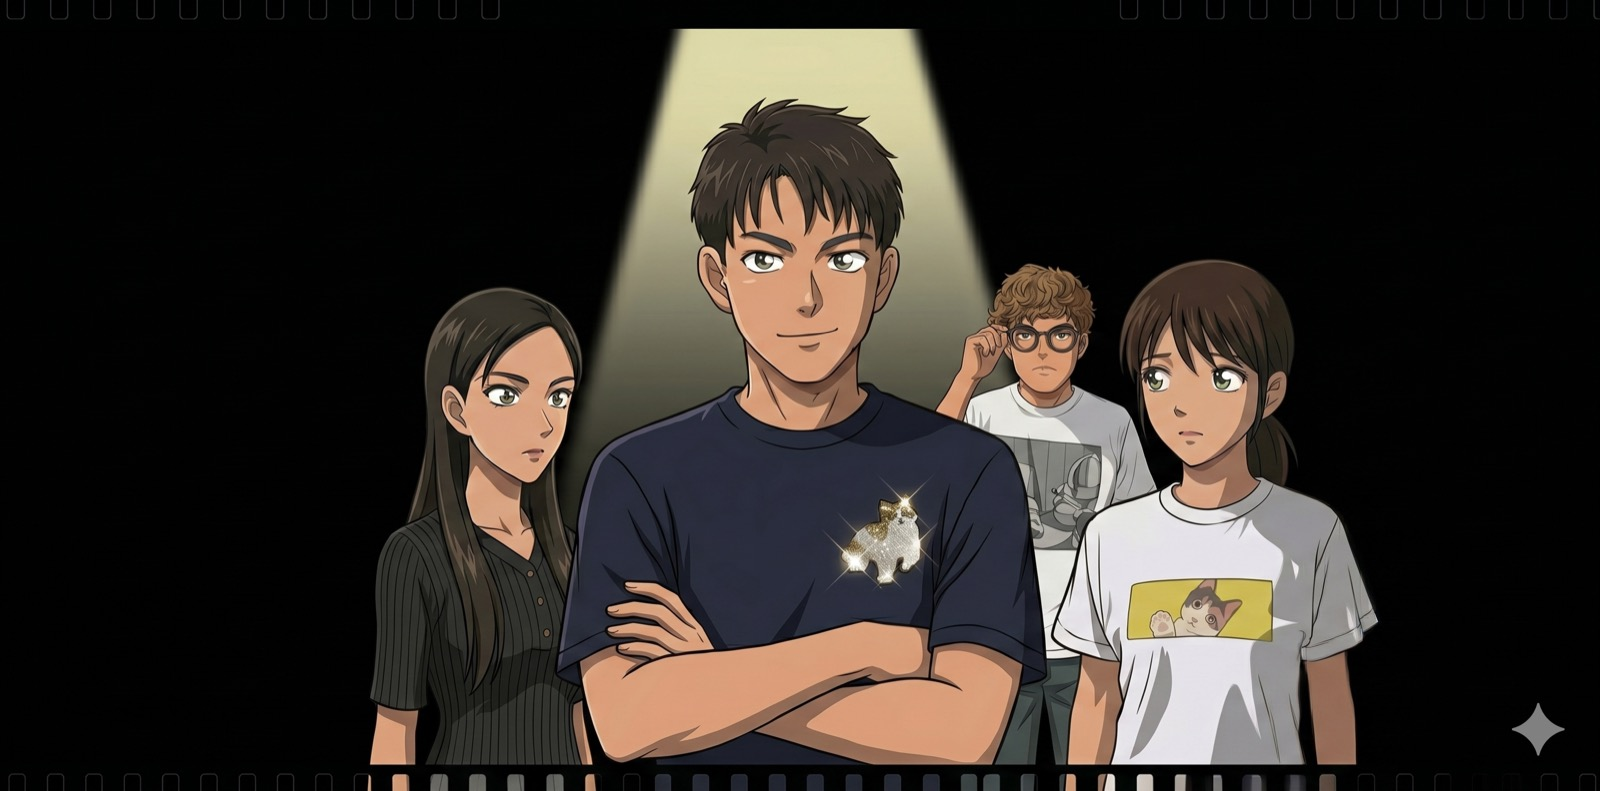
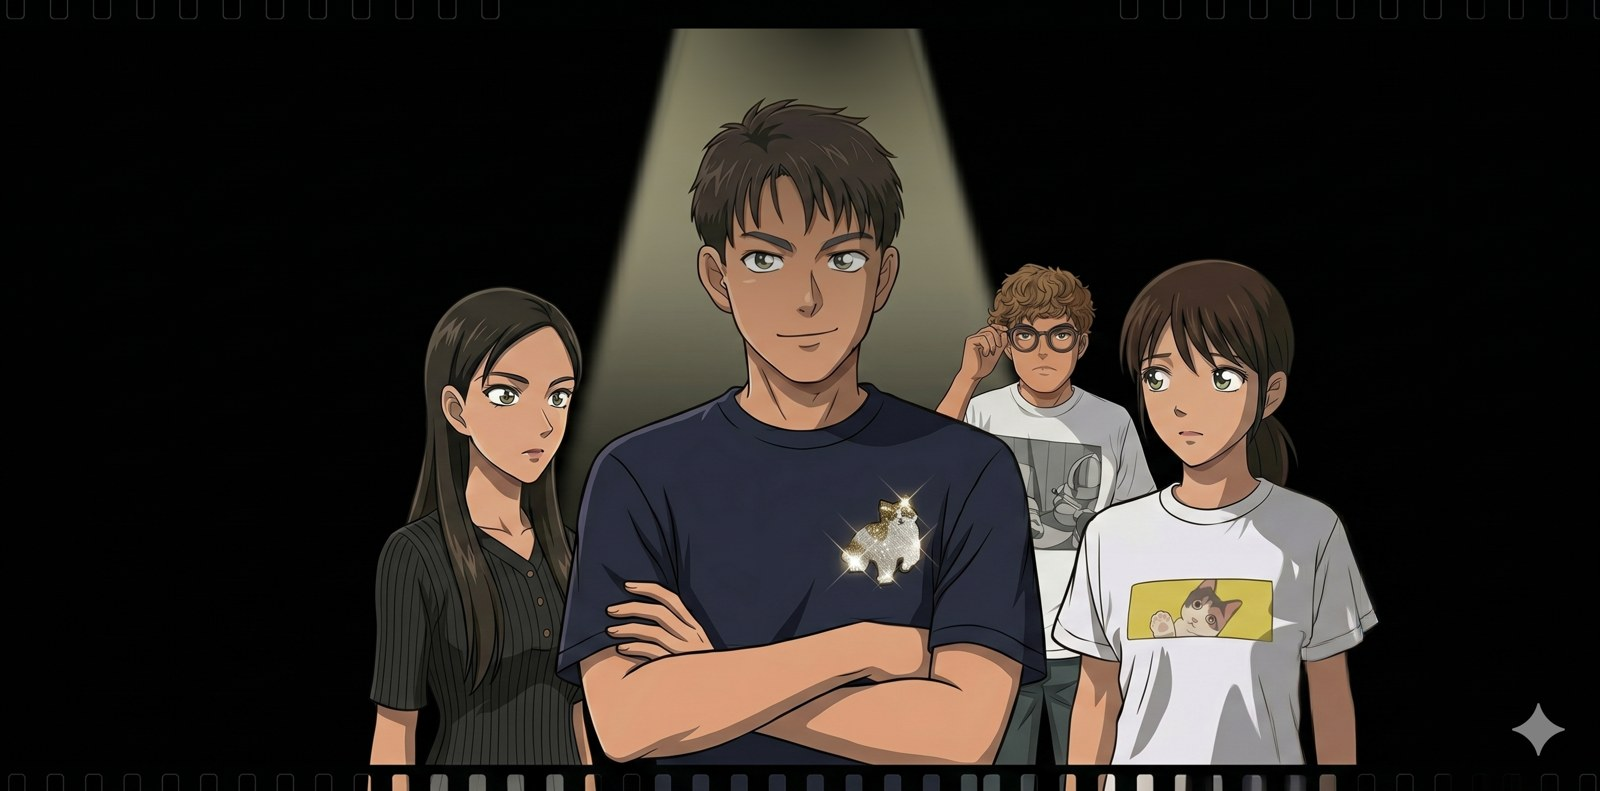
itabashi-v3: スポットライト除去・キャプションを「私たちにお任せください！／第弐ヴォヌール @daini_vonheur」に変更

Changed region(s): [[0.375, 0.0303, 0.625, 0.4551], [0.75, 0.6372, 0.7812, 0.6675]]

diff --git a/itabashi-v3.html b/itabashi-v3.html
@@ -109,7 +109,7 @@
   </div>
   <div class="reel-audio"><span class="reel-note">&#9834;</span><span class="reel-track">オリジナル音源 &middot; 第弐ヴォヌール</span></div>
   <div class="reel-bar"><span></span></div>
-</div></div><div class="mt-10 grid grid-cols-1 md:grid-cols-2 gap-4 max-w-2xl mx-auto"><div class="bg-white/70 backdrop-blur-sm rounded-2xl p-5 border border-[#E8B84B]/30 flex flex-col items-center text-center gap-3 shadow-sm"><div><p class="text-xs font-bold text-[#2A2520] mb-1">SNS運用・クラウドファンディングを<br>相談したい事業者様</p><p class="text-xs text-[#5A5550] leading-relaxed">まずはお気軽に無料相談してみる</p></div><a href="#contact"><span class="inline-flex items-center gap-2 bg-[#E8B84B] hover:bg-[#d4a63a] text-white font-bold px-6 py-2.5 rounded-full shadow-md transition-all duration-200 hover:shadow-lg text-xs w-full justify-center cursor-pointer"><svg viewBox="0 0 24 24" class="w-4 h-4 fill-white"><path d="M19 3H5c-1.1 0-2 .9-2 2v14c0 1.1.9 2 2 2h14c1.1 0 2-.9 2-2V5c0-1.1-.9-2-2-2zm-5 14H7v-2h7v2zm3-4H7v-2h10v2zm0-4H7V7h10v2z"></path></svg>無料相談する</span></a></div><div class="bg-white/70 backdrop-blur-sm rounded-2xl p-5 border border-[#89C4D4]/40 flex flex-col items-center text-center gap-3 shadow-sm"><div><p class="text-xs font-bold text-[#2A2520] mb-1">サービス内容をもっと知りたい方へ</p><p class="text-xs text-[#5A5550] leading-relaxed">実績・料金・サービス詳細をチェックする</p></div><a href="#service" class="inline-flex items-center gap-2 bg-[#89C4D4] hover:bg-[#7bbeca] text-white font-bold px-6 py-2.5 rounded-full shadow-md transition-all duration-200 hover:shadow-lg text-xs w-full justify-center"><svg viewBox="0 0 24 24" class="w-4 h-4 fill-white"><path d="M11.99 2C6.47 2 2 6.48 2 12s4.47 10 9.99 10C17.52 22 22 17.52 22 12S17.52 2 11.99 2zm4.24 16L12 15.45 7.77 18l1.12-4.81-3.73-3.23 4.92-.42L12 5l1.92 4.53 4.92.42-3.73 3.23L16.23 18z"></path></svg>サービスを見る</a></div></div></div></div></div></div></div></div></section><section id="service" class="py-12 md:py-20 bg-[#F4F0E8]"><div class="container"><div class="fade-in-up mb-8 md:mb-12"><div class="sec-label-c mb-3">SERVICE &amp; PRICE</div><h2 class="editorial-heading text-3xl md:text-4xl font-bold text-[#2A2520] mb-4">必要な施策を、必要な分だけ。</h2><p class="text-[#5A5550] text-sm leading-relaxed max-w-xl">目的やご予算に応じて柔軟に対応いたします。<br><strong class="text-[#E07A5F]">まずはお気軽にご相談ください。</strong><br>詳細はお打ち合わせの上、<br>最適なご提案をさせていただきます。</p></div><div class="fade-in-up mb-10"><div class="bg-white rounded-2xl border border-[#E8E4DC] overflow-hidden shadow-sm"><div class="bg-[#2A2520] px-6 py-4"><h3 class="text-white font-['Shippori_Mincho'] font-bold text-lg">料金の目安</h3><p class="text-white/50 text-xs mt-0.5">目的やご予算に合わせて柔軟にご相談ください。</p></div><div class="overflow-x-auto"><table class="w-full text-sm"><thead><tr class="border-b border-[#E8E4DC]"><th class="text-left px-5 py-3 text-xs font-semibold text-[#5A5550] w-1/3">サービス</th><th class="px-5 py-3 text-center"><span class="text-xs text-[#5A5550]">一般的な相場</span></th><th class="px-5 py-3 text-center bg-[#E8B84B]/8"><span class="text-xs font-bold text-[#C2A56D]">第弐ヴォヌール</span></th></tr></thead><tbody><tr class="border-b border-[#E8E4DC] last:border-0"><td class="px-5 py-3.5 text-xs font-medium text-[#2A2520]">運用代行（月額）</td><td class="px-5 py-3.5 text-center"><span class="text-xs text-[#5A5550]">月30万円〜</span></td><td class="px-5 py-3.5 text-center bg-[#E8B84B]/5"><span class="text-sm font-bold" style="color:#df846e">7万円〜</span></td></tr><tr class="border-b border-[#E8E4DC] last:border-0"><td class="px-5 py-3.5 text-xs font-medium text-[#2A2520]">アカウントコンサル</td><td class="px-5 py-3.5 text-center"><span class="text-xs text-[#5A5550]">月10〜30万円〜</span></td><td class="px-5 py-3.5 text-center bg-[#E8B84B]/5"><span class="text-sm font-bold" style="color:#df846e">4万円〜</span></td></tr><tr class="border-b border-[#E8E4DC] last:border-0"><td class="px-5 py-3.5 text-xs font-medium text-[#2A2520]">リール制作（企画・台本・編集）</td><td class="px-5 py-3.5 text-center"><span class="text-xs text-[#5A5550]">3〜10万円〜</span></td><td class="px-5 py-3.5 text-center bg-[#E8B84B]/5"><span class="text-sm font-bold" style="color:#df846e">2万円〜/本</span></td></tr><tr class="border-b border-[#E8E4DC] last:border-0"><td class="px-5 py-3.5 text-xs font-medium text-[#2A2520]">アカウント設計</td><td class="px-5 py-3.5 text-center"><span class="text-xs text-[#5A5550]">月10〜30万円〜</span></td><td class="px-5 py-3.5 text-center bg-[#E8B84B]/5"><span class="text-sm font-bold" style="color:#df846e">3万円〜</span></td></tr><tr class="border-b border-[#E8E4DC] last:border-0"><td class="px-5 py-3.5 text-xs font-medium text-[#2A2520]">分析・改善サポート</td><td class="px-5 py-3.5 text-center"><span class="text-xs text-[#5A5550]">月5〜15万円〜</span></td><td class="px-5 py-3.5 text-center bg-[#E8B84B]/5"><span class="text-sm font-bold" style="color:#df846e">2万円〜</span></td></tr></tbody></table></div><div class="px-5 py-3 bg-[#E8B84B]/10 border-t border-[#E8B84B]/20"><p class="text-sm text-[#5A5550]">※ 料金はご依頼内容・ボリュームにより変わります。まずはお気軽にご相談ください。</p></div></div></div></div></div></section><section id="strength" class="py-12 md:py-20"><div class="container"><div class="fade-in-up mb-8 md:mb-12"><div class="sec-label-c mb-3">STRENGTH</div><h2 class="editorial-heading text-3xl md:text-4xl font-bold text-[#2A2520] mb-4">なぜ、売上まで変えられるのか。</h2><p class="text-[#5A5550] text-sm leading-relaxed max-w-xl">SNS・動画・販売導線を一気通貫で担うチーム。<br>プロクオリティの映像と戦略設計で、クライアントの売上に直結します。</p></div><div class="grid md:grid-cols-3 gap-6"><div class="fade-in-up "><div class="str-card" style="--bg:url('images/strength_1.jpg')"><div class="str-photo" style="background-image:url('images/strength_1.jpg');background-position:100% 28%;background-size:135%"></div><h3 class="editorial-heading font-bold text-base text-[#2A2520] mb-3">「点」ではなく「線」でつなぐストーリー設計</h3><p class="text-sm text-[#5A5550] leading-relaxed">InstagramやTikTokから始まり、広告運用、公式LINE、クラウドファンディングまでのロードマップを作成し、御社の商品（サービス）が売れるストーリーを設計します。認知から購買までを一本の線でつなぐ、盤石な仕組みを構築できるのが私たちの強みです。</p></div></div><div class="fade-in-up "><div class="str-card" style="--bg:url('images/strength_1.jpg')"><div class="str-photo" style="background-image:url('images/strength_1.jpg');background-position:50% 28%;background-size:135%"></div><h3 class="editorial-heading font-bold text-base text-[#2A2520] mb-3">心を動かす映像で、「ファン」をつくる</h3><p class="text-sm text-[#5A5550] leading-relaxed">CM撮影の現場で培った技術力。照明・構図・編集まで、人の心を動かす映像を自社で撮影・制作できます。その実力は、自社アカウントの初回投稿で<strong class="text-[#E07A5F]">20万インプレッション</strong>を達成した実績が証明しています。</p></div></div><div class="fade-in-up "><div class="str-card" style="--bg:url('images/strength_1.jpg')"><div class="str-photo" style="background-image:url('images/strength_1.jpg');background-position:0% 28%;background-size:135%"></div><h3 class="editorial-heading font-bold text-base text-[#2A2520] mb-3">完全自社完結の一気通貫型</h3><p class="text-sm text-[#5A5550] leading-relaxed">SNS運用、広告運用、公式LINE構築、クラウドファンディング運営支援まで、すべての工程を完全自社内で完結させます。下請け業者を挟まないため、連絡のタイムラグや複雑なやり取りは一切ありません。</p></div></div></div><div class="fade-in-up mt-10"><div class="rounded-2xl overflow-hidden" style="max-width:900px;margin:0 auto;box-shadow:0 18px 50px rgba(0,0,0,0.18);"><img src="images/team_scene.jpg" class="w-full h-auto block" alt="株式会社第弐ヴォヌール 個性派探偵団"></div><p class="text-center mt-4" style="font-family:'Shippori Mincho',serif;font-size:.98rem;color:#2A2520;">フォロワーを、ファンに、売上に。<span style="color:#9A938A;margin-left:10px;font-size:.85em;">— 第弐ヴォヌール @daini_vonheur</span></p></div></div></section><section id="subsidy" class="py-12 md:py-20 bg-[#F4F0E8]"><div class="container">
+</div></div><div class="mt-10 grid grid-cols-1 md:grid-cols-2 gap-4 max-w-2xl mx-auto"><div class="bg-white/70 backdrop-blur-sm rounded-2xl p-5 border border-[#E8B84B]/30 flex flex-col items-center text-center gap-3 shadow-sm"><div><p class="text-xs font-bold text-[#2A2520] mb-1">SNS運用・クラウドファンディングを<br>相談したい事業者様</p><p class="text-xs text-[#5A5550] leading-relaxed">まずはお気軽に無料相談してみる</p></div><a href="#contact"><span class="inline-flex items-center gap-2 bg-[#E8B84B] hover:bg-[#d4a63a] text-white font-bold px-6 py-2.5 rounded-full shadow-md transition-all duration-200 hover:shadow-lg text-xs w-full justify-center cursor-pointer"><svg viewBox="0 0 24 24" class="w-4 h-4 fill-white"><path d="M19 3H5c-1.1 0-2 .9-2 2v14c0 1.1.9 2 2 2h14c1.1 0 2-.9 2-2V5c0-1.1-.9-2-2-2zm-5 14H7v-2h7v2zm3-4H7v-2h10v2zm0-4H7V7h10v2z"></path></svg>無料相談する</span></a></div><div class="bg-white/70 backdrop-blur-sm rounded-2xl p-5 border border-[#89C4D4]/40 flex flex-col items-center text-center gap-3 shadow-sm"><div><p class="text-xs font-bold text-[#2A2520] mb-1">サービス内容をもっと知りたい方へ</p><p class="text-xs text-[#5A5550] leading-relaxed">実績・料金・サービス詳細をチェックする</p></div><a href="#service" class="inline-flex items-center gap-2 bg-[#89C4D4] hover:bg-[#7bbeca] text-white font-bold px-6 py-2.5 rounded-full shadow-md transition-all duration-200 hover:shadow-lg text-xs w-full justify-center"><svg viewBox="0 0 24 24" class="w-4 h-4 fill-white"><path d="M11.99 2C6.47 2 2 6.48 2 12s4.47 10 9.99 10C17.52 22 22 17.52 22 12S17.52 2 11.99 2zm4.24 16L12 15.45 7.77 18l1.12-4.81-3.73-3.23 4.92-.42L12 5l1.92 4.53 4.92.42-3.73 3.23L16.23 18z"></path></svg>サービスを見る</a></div></div></div></div></div></div></div></div></section><section id="service" class="py-12 md:py-20 bg-[#F4F0E8]"><div class="container"><div class="fade-in-up mb-8 md:mb-12"><div class="sec-label-c mb-3">SERVICE &amp; PRICE</div><h2 class="editorial-heading text-3xl md:text-4xl font-bold text-[#2A2520] mb-4">必要な施策を、必要な分だけ。</h2><p class="text-[#5A5550] text-sm leading-relaxed max-w-xl">目的やご予算に応じて柔軟に対応いたします。<br><strong class="text-[#E07A5F]">まずはお気軽にご相談ください。</strong><br>詳細はお打ち合わせの上、<br>最適なご提案をさせていただきます。</p></div><div class="fade-in-up mb-10"><div class="bg-white rounded-2xl border border-[#E8E4DC] overflow-hidden shadow-sm"><div class="bg-[#2A2520] px-6 py-4"><h3 class="text-white font-['Shippori_Mincho'] font-bold text-lg">料金の目安</h3><p class="text-white/50 text-xs mt-0.5">目的やご予算に合わせて柔軟にご相談ください。</p></div><div class="overflow-x-auto"><table class="w-full text-sm"><thead><tr class="border-b border-[#E8E4DC]"><th class="text-left px-5 py-3 text-xs font-semibold text-[#5A5550] w-1/3">サービス</th><th class="px-5 py-3 text-center"><span class="text-xs text-[#5A5550]">一般的な相場</span></th><th class="px-5 py-3 text-center bg-[#E8B84B]/8"><span class="text-xs font-bold text-[#C2A56D]">第弐ヴォヌール</span></th></tr></thead><tbody><tr class="border-b border-[#E8E4DC] last:border-0"><td class="px-5 py-3.5 text-xs font-medium text-[#2A2520]">運用代行（月額）</td><td class="px-5 py-3.5 text-center"><span class="text-xs text-[#5A5550]">月30万円〜</span></td><td class="px-5 py-3.5 text-center bg-[#E8B84B]/5"><span class="text-sm font-bold" style="color:#df846e">7万円〜</span></td></tr><tr class="border-b border-[#E8E4DC] last:border-0"><td class="px-5 py-3.5 text-xs font-medium text-[#2A2520]">アカウントコンサル</td><td class="px-5 py-3.5 text-center"><span class="text-xs text-[#5A5550]">月10〜30万円〜</span></td><td class="px-5 py-3.5 text-center bg-[#E8B84B]/5"><span class="text-sm font-bold" style="color:#df846e">4万円〜</span></td></tr><tr class="border-b border-[#E8E4DC] last:border-0"><td class="px-5 py-3.5 text-xs font-medium text-[#2A2520]">リール制作（企画・台本・編集）</td><td class="px-5 py-3.5 text-center"><span class="text-xs text-[#5A5550]">3〜10万円〜</span></td><td class="px-5 py-3.5 text-center bg-[#E8B84B]/5"><span class="text-sm font-bold" style="color:#df846e">2万円〜/本</span></td></tr><tr class="border-b border-[#E8E4DC] last:border-0"><td class="px-5 py-3.5 text-xs font-medium text-[#2A2520]">アカウント設計</td><td class="px-5 py-3.5 text-center"><span class="text-xs text-[#5A5550]">月10〜30万円〜</span></td><td class="px-5 py-3.5 text-center bg-[#E8B84B]/5"><span class="text-sm font-bold" style="color:#df846e">3万円〜</span></td></tr><tr class="border-b border-[#E8E4DC] last:border-0"><td class="px-5 py-3.5 text-xs font-medium text-[#2A2520]">分析・改善サポート</td><td class="px-5 py-3.5 text-center"><span class="text-xs text-[#5A5550]">月5〜15万円〜</span></td><td class="px-5 py-3.5 text-center bg-[#E8B84B]/5"><span class="text-sm font-bold" style="color:#df846e">2万円〜</span></td></tr></tbody></table></div><div class="px-5 py-3 bg-[#E8B84B]/10 border-t border-[#E8B84B]/20"><p class="text-sm text-[#5A5550]">※ 料金はご依頼内容・ボリュームにより変わります。まずはお気軽にご相談ください。</p></div></div></div></div></div></section><section id="strength" class="py-12 md:py-20"><div class="container"><div class="fade-in-up mb-8 md:mb-12"><div class="sec-label-c mb-3">STRENGTH</div><h2 class="editorial-heading text-3xl md:text-4xl font-bold text-[#2A2520] mb-4">なぜ、売上まで変えられるのか。</h2><p class="text-[#5A5550] text-sm leading-relaxed max-w-xl">SNS・動画・販売導線を一気通貫で担うチーム。<br>プロクオリティの映像と戦略設計で、クライアントの売上に直結します。</p></div><div class="grid md:grid-cols-3 gap-6"><div class="fade-in-up "><div class="str-card" style="--bg:url('images/strength_1.jpg')"><div class="str-photo" style="background-image:url('images/strength_1.jpg');background-position:100% 28%;background-size:135%"></div><h3 class="editorial-heading font-bold text-base text-[#2A2520] mb-3">「点」ではなく「線」でつなぐストーリー設計</h3><p class="text-sm text-[#5A5550] leading-relaxed">InstagramやTikTokから始まり、広告運用、公式LINE、クラウドファンディングまでのロードマップを作成し、御社の商品（サービス）が売れるストーリーを設計します。認知から購買までを一本の線でつなぐ、盤石な仕組みを構築できるのが私たちの強みです。</p></div></div><div class="fade-in-up "><div class="str-card" style="--bg:url('images/strength_1.jpg')"><div class="str-photo" style="background-image:url('images/strength_1.jpg');background-position:50% 28%;background-size:135%"></div><h3 class="editorial-heading font-bold text-base text-[#2A2520] mb-3">心を動かす映像で、「ファン」をつくる</h3><p class="text-sm text-[#5A5550] leading-relaxed">CM撮影の現場で培った技術力。照明・構図・編集まで、人の心を動かす映像を自社で撮影・制作できます。その実力は、自社アカウントの初回投稿で<strong class="text-[#E07A5F]">20万インプレッション</strong>を達成した実績が証明しています。</p></div></div><div class="fade-in-up "><div class="str-card" style="--bg:url('images/strength_1.jpg')"><div class="str-photo" style="background-image:url('images/strength_1.jpg');background-position:0% 28%;background-size:135%"></div><h3 class="editorial-heading font-bold text-base text-[#2A2520] mb-3">完全自社完結の一気通貫型</h3><p class="text-sm text-[#5A5550] leading-relaxed">SNS運用、広告運用、公式LINE構築、クラウドファンディング運営支援まで、すべての工程を完全自社内で完結させます。下請け業者を挟まないため、連絡のタイムラグや複雑なやり取りは一切ありません。</p></div></div></div><div class="fade-in-up mt-10"><div class="rounded-2xl overflow-hidden" style="max-width:900px;margin:0 auto;box-shadow:0 18px 50px rgba(0,0,0,0.18);"><img src="images/team_scene.jpg" class="w-full h-auto block" alt="株式会社第弐ヴォヌール 個性派探偵団"></div><p class="text-center mt-4" style="font-family:'Shippori Mincho',serif;font-size:.98rem;color:#2A2520;line-height:1.9;">私たちにお任せください！<br><span style="color:#9A938A;font-size:.85em;">第弐ヴォヌール @daini_vonheur</span></p></div></div></section><section id="subsidy" class="py-12 md:py-20 bg-[#F4F0E8]"><div class="container">
 
   <div class="fade-in-up mb-8 md:mb-12">
     <div class="sec-label-c mb-3">SUBSIDY</div>
